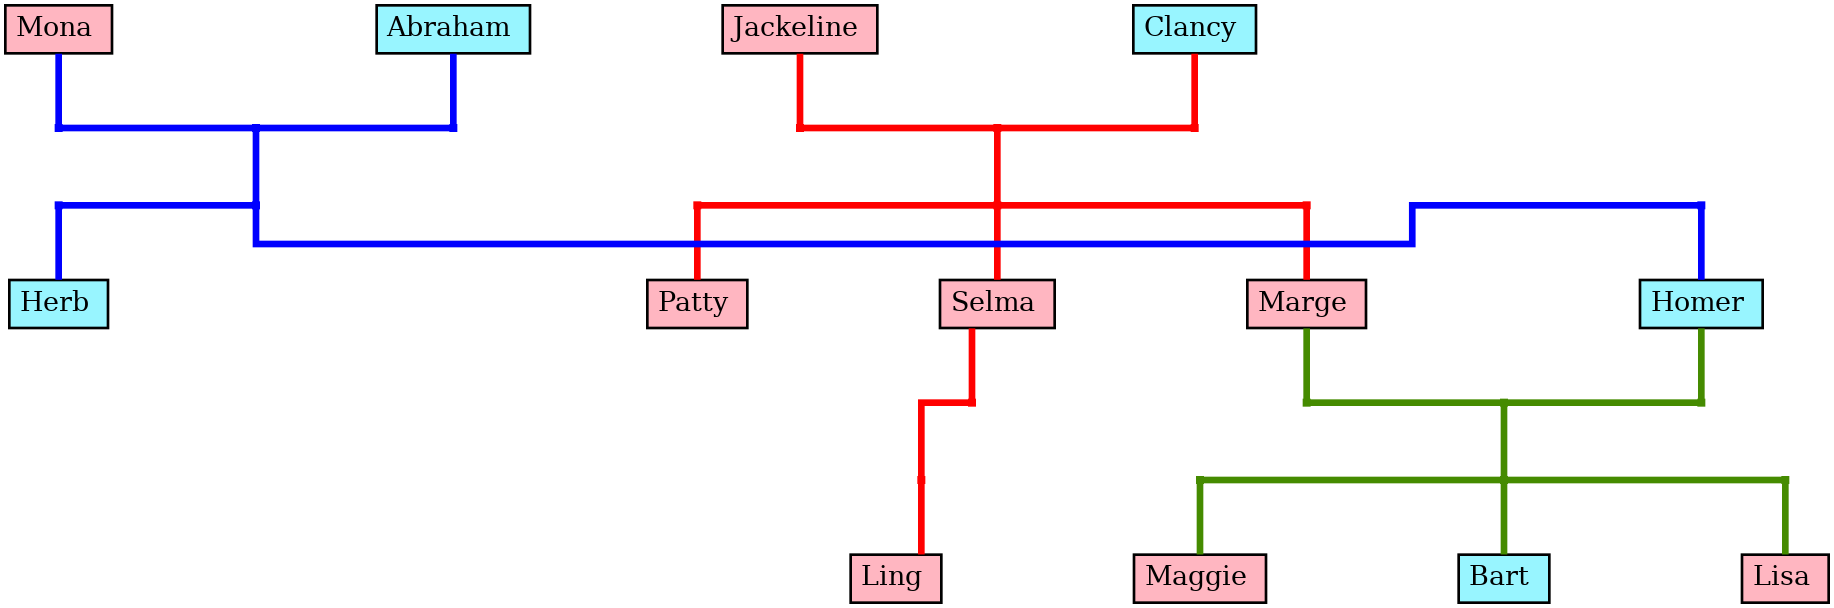
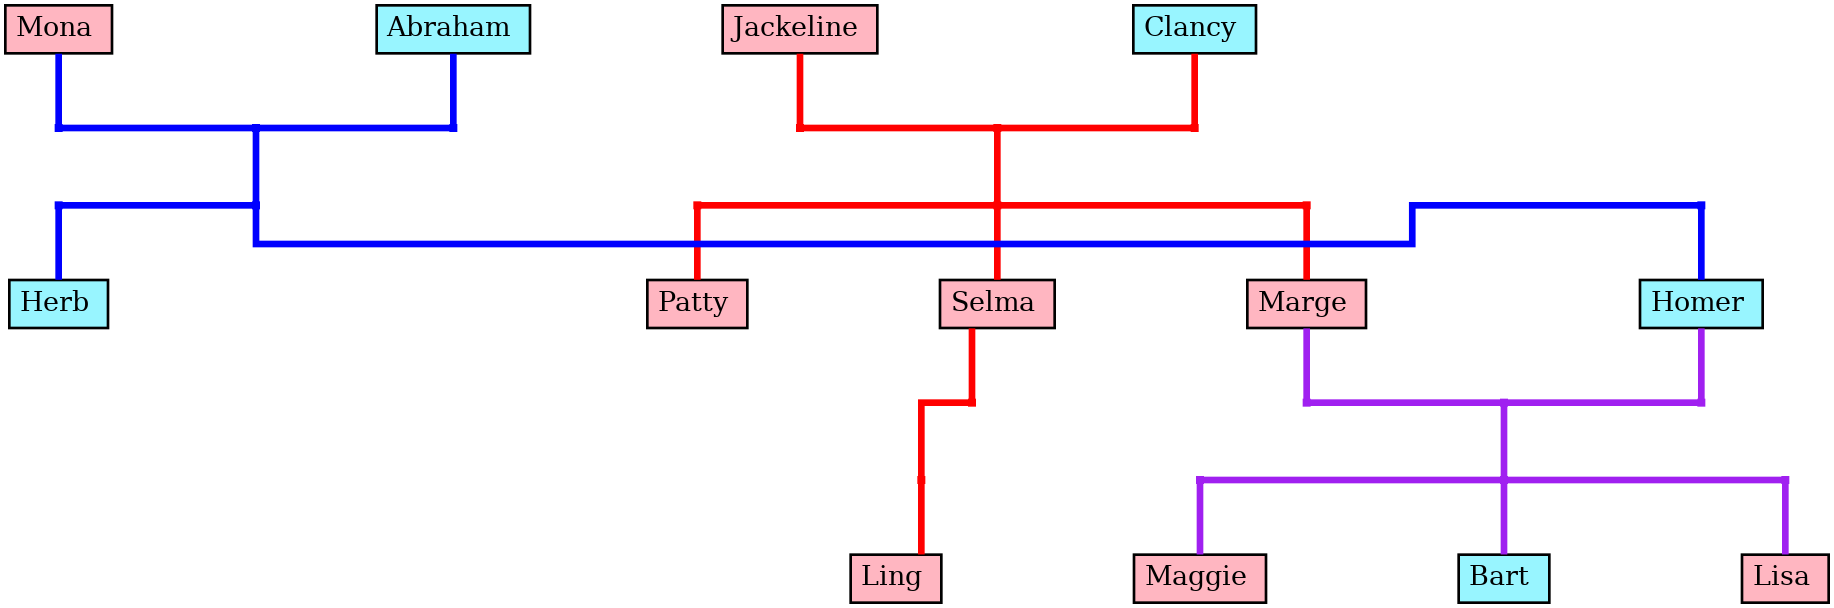
change edge color to purple

Changed region(s): [[0.6527, 0.5625, 0.9945, 0.9062], [0.6838, 0.5625, 0.7148, 0.6562]]

diff --git a/src/treegraph.py b/src/treegraph.py
@@ -256,7 +256,7 @@ class Graph:
         current_gen = 0
         node_fill = ["cadetblue1", "lightpink"]
         # 2 χρώματα για κάθε γάμο
-        marriage_colors = ["red", "blue", "chartreuse4"]
+        marriage_colors = ["red", "blue", "purple"]
         for person in people:
             graph.add_node(person.id, label=f"{person.name}", style="filled", fillcolor=node_fill[0] if person.gender=="male" else node_fill[1])
         # για κάθε γενιά
